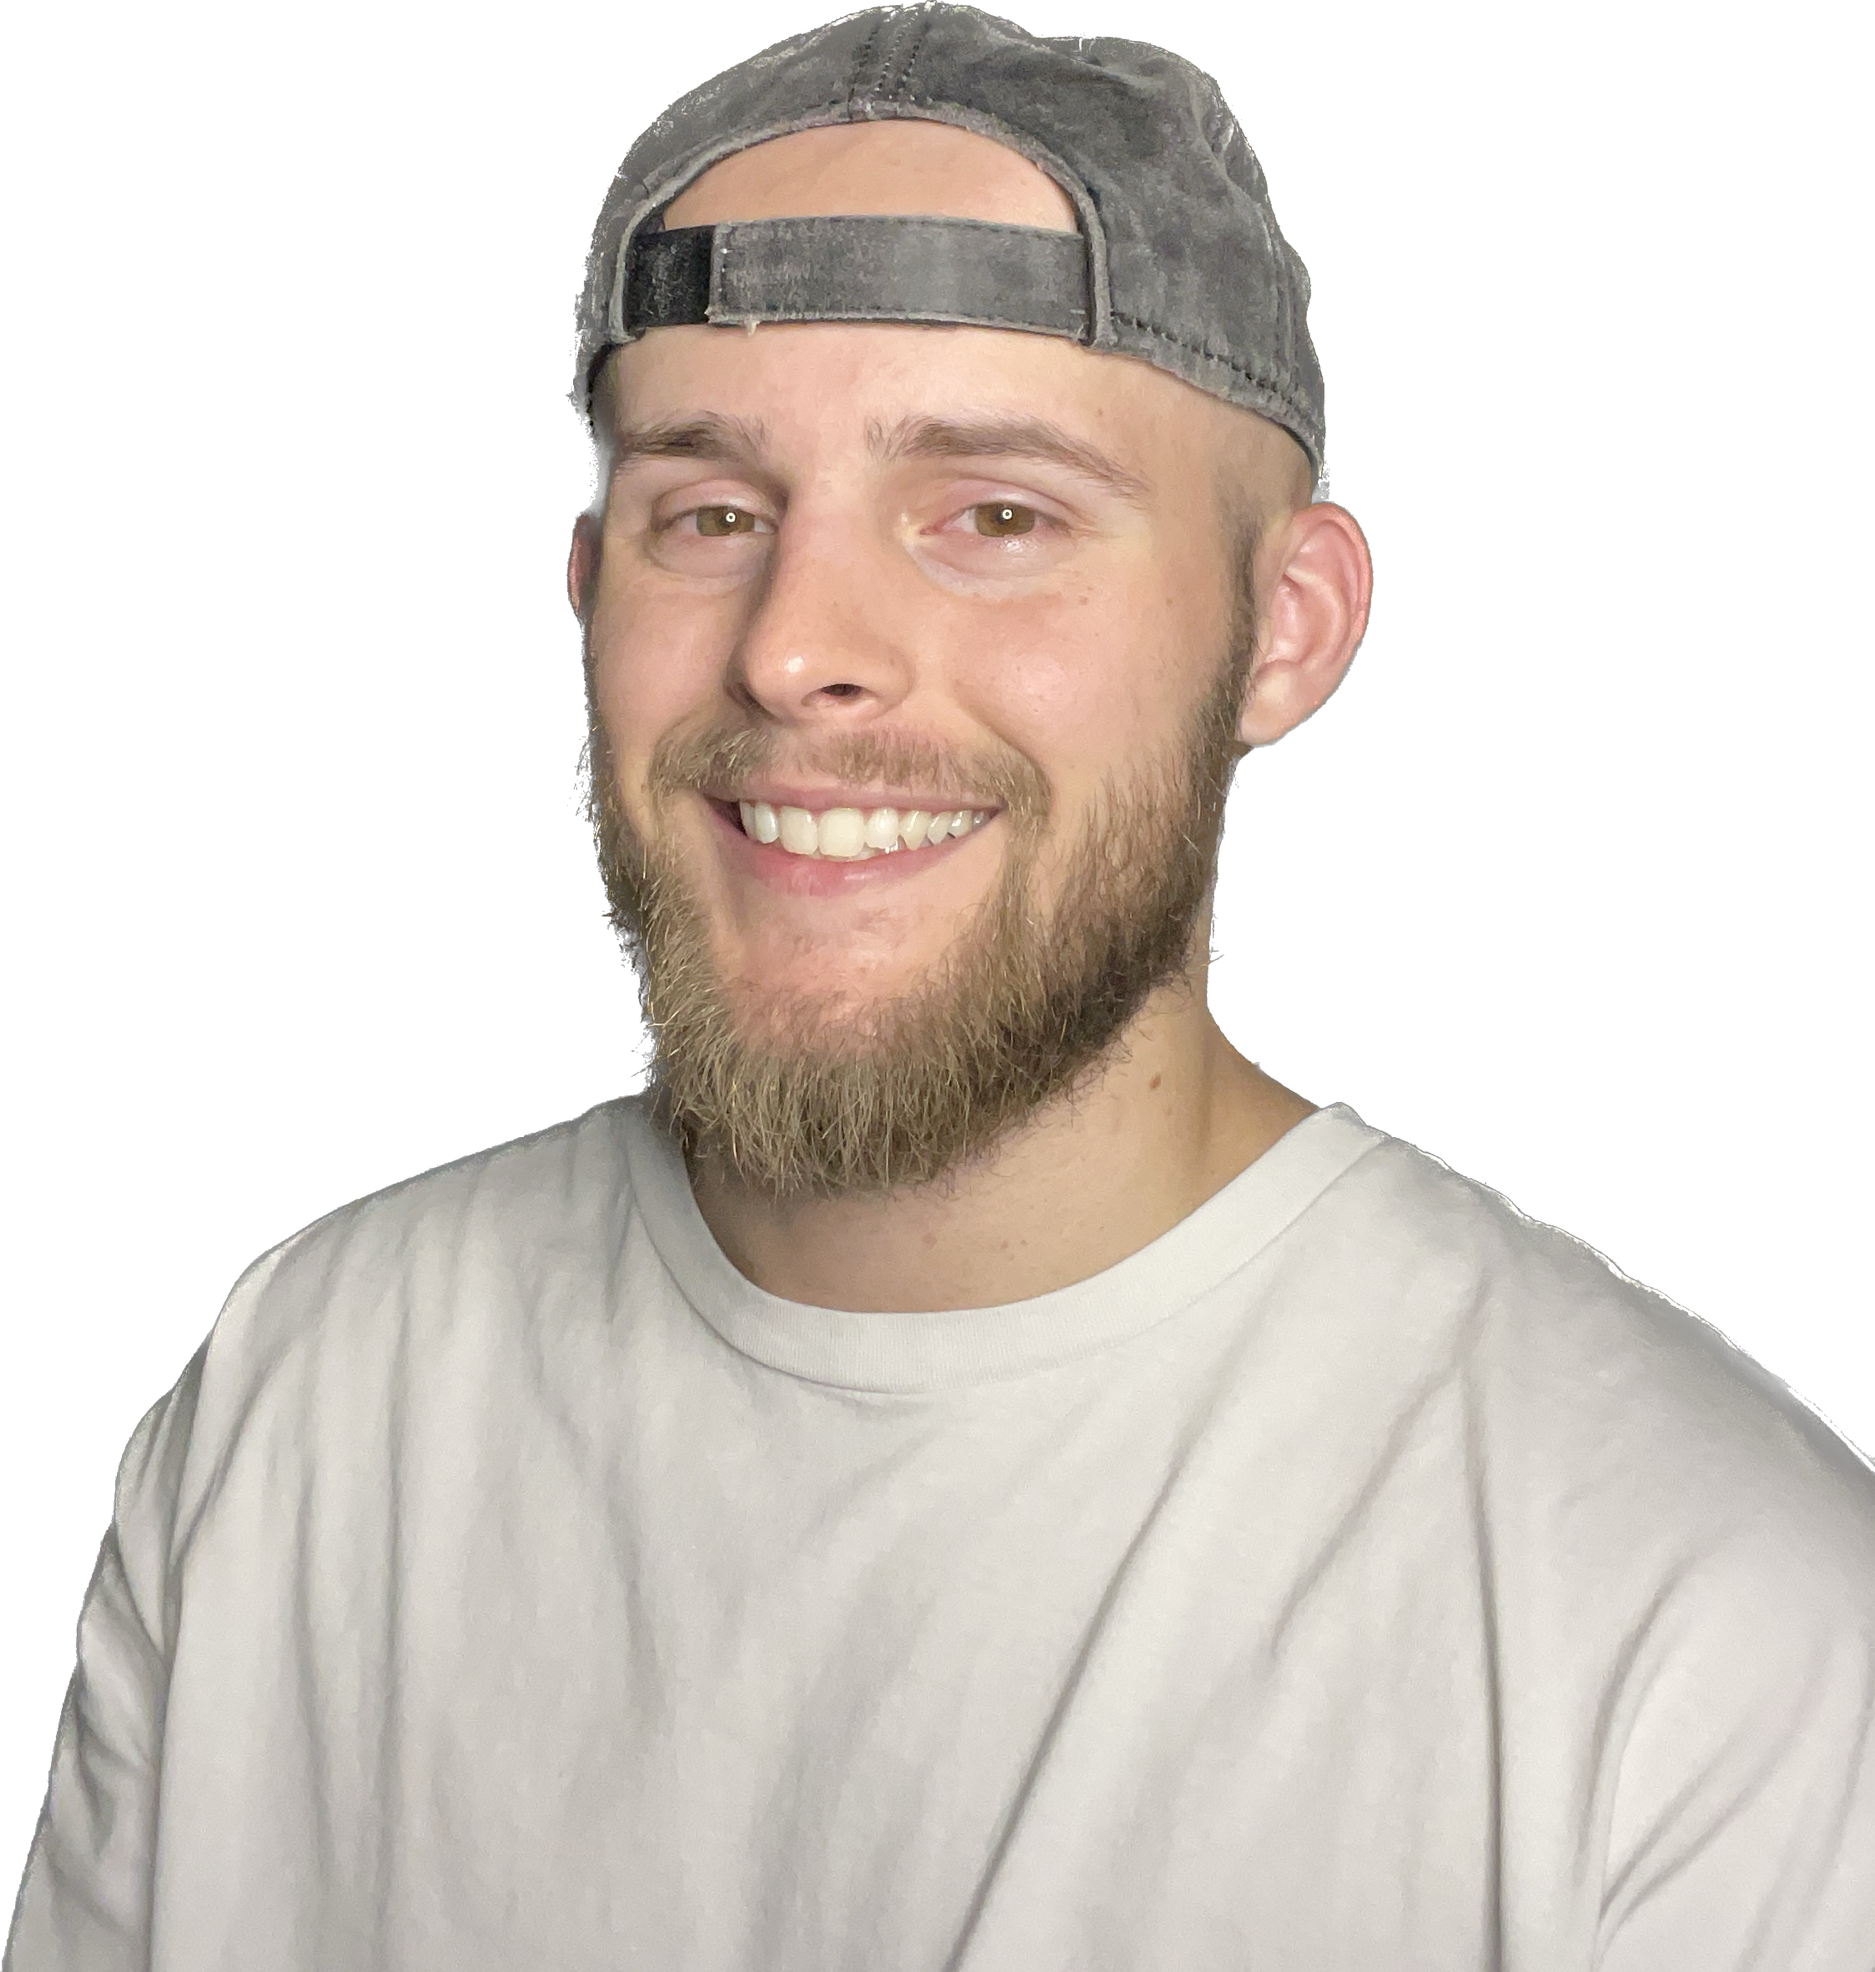
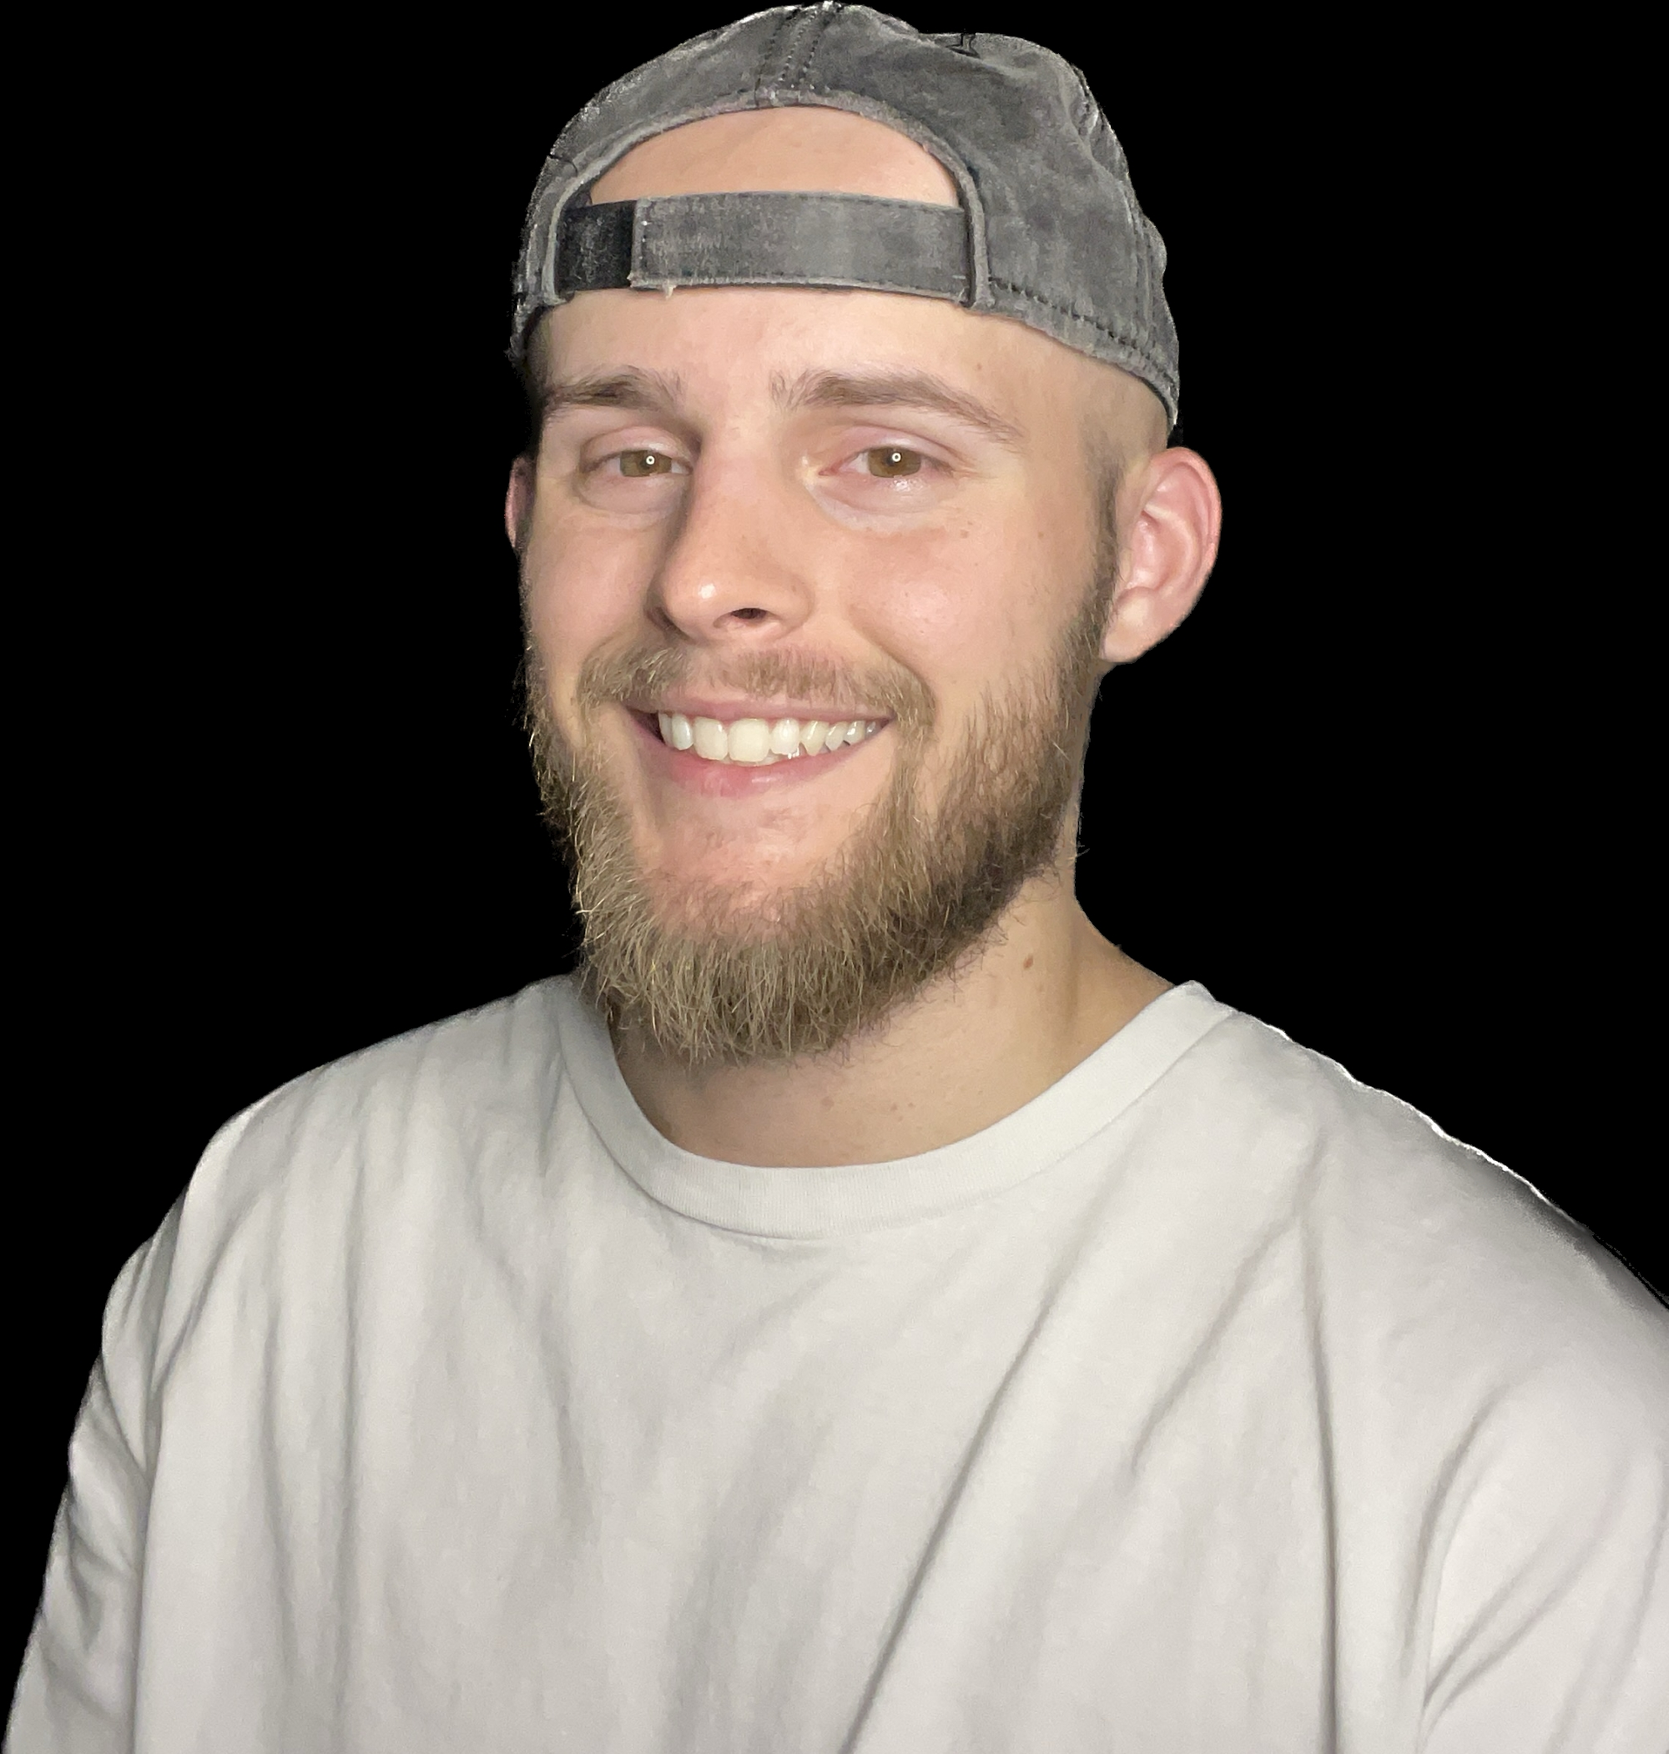
image

diff --git a/index.html b/index.html
@@ -34,7 +34,7 @@
     <div class="container">
         <div class="row">
             <div class="about-col-1">
-                <img src="./images/otherdude.jpg">
+                <img src="./images/otherdude1.jpg">
             </div>
             <div class="about-col-2">
                 <h1 class="sub-title">About Me</h1>

diff --git a/styles.css b/styles.css
@@ -17,7 +17,7 @@ body {
 #header{
     width: 100%;
     height: 100vh;
-    background-image: url(./images/dude.jpg);
+    background-image: url(./images/dude1.jpg);
     background-size: cover;
     background-position: center;
 }
